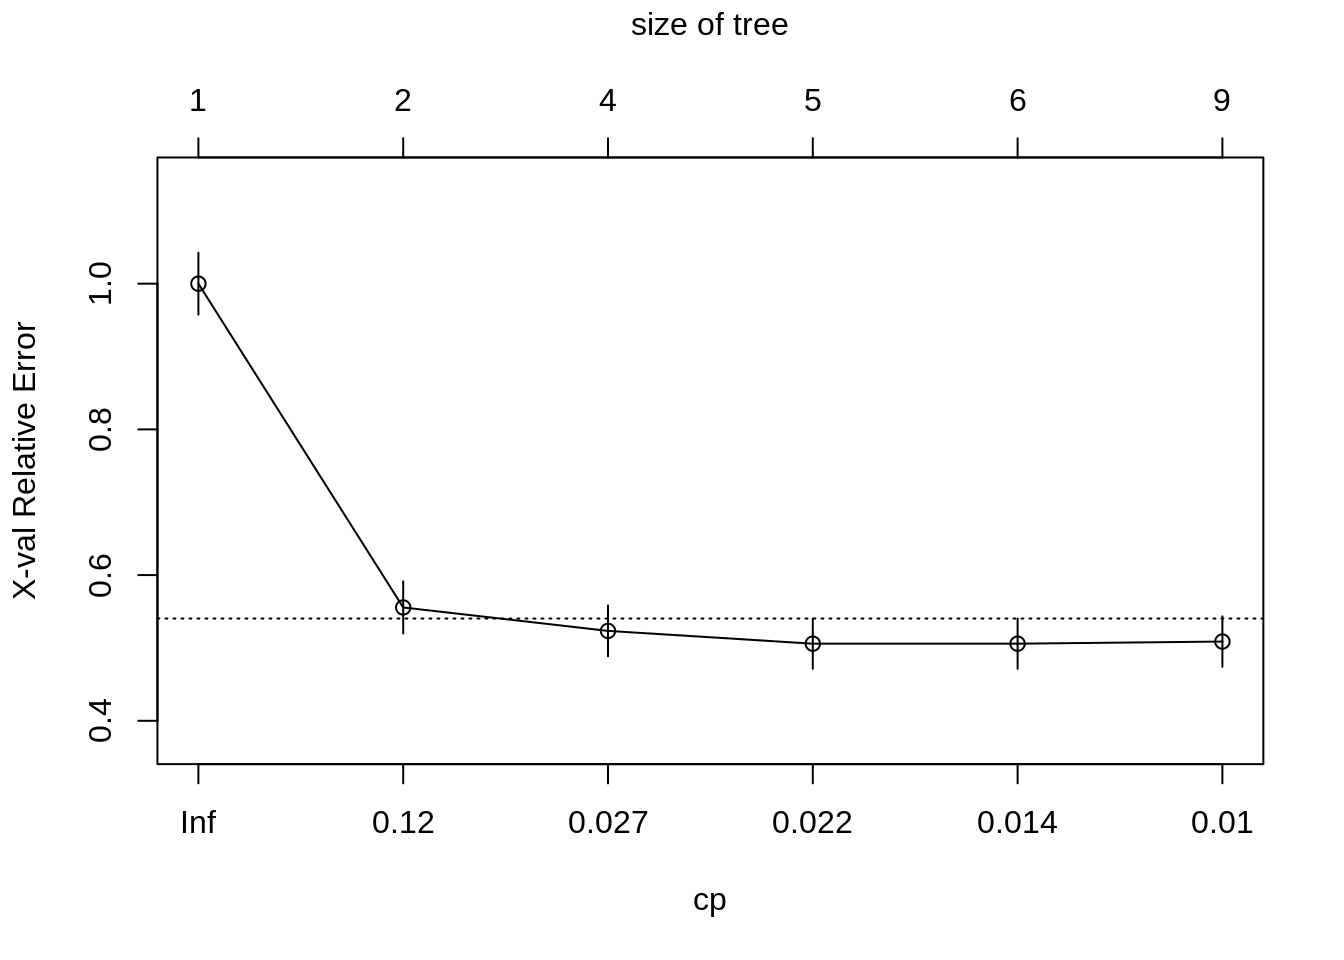
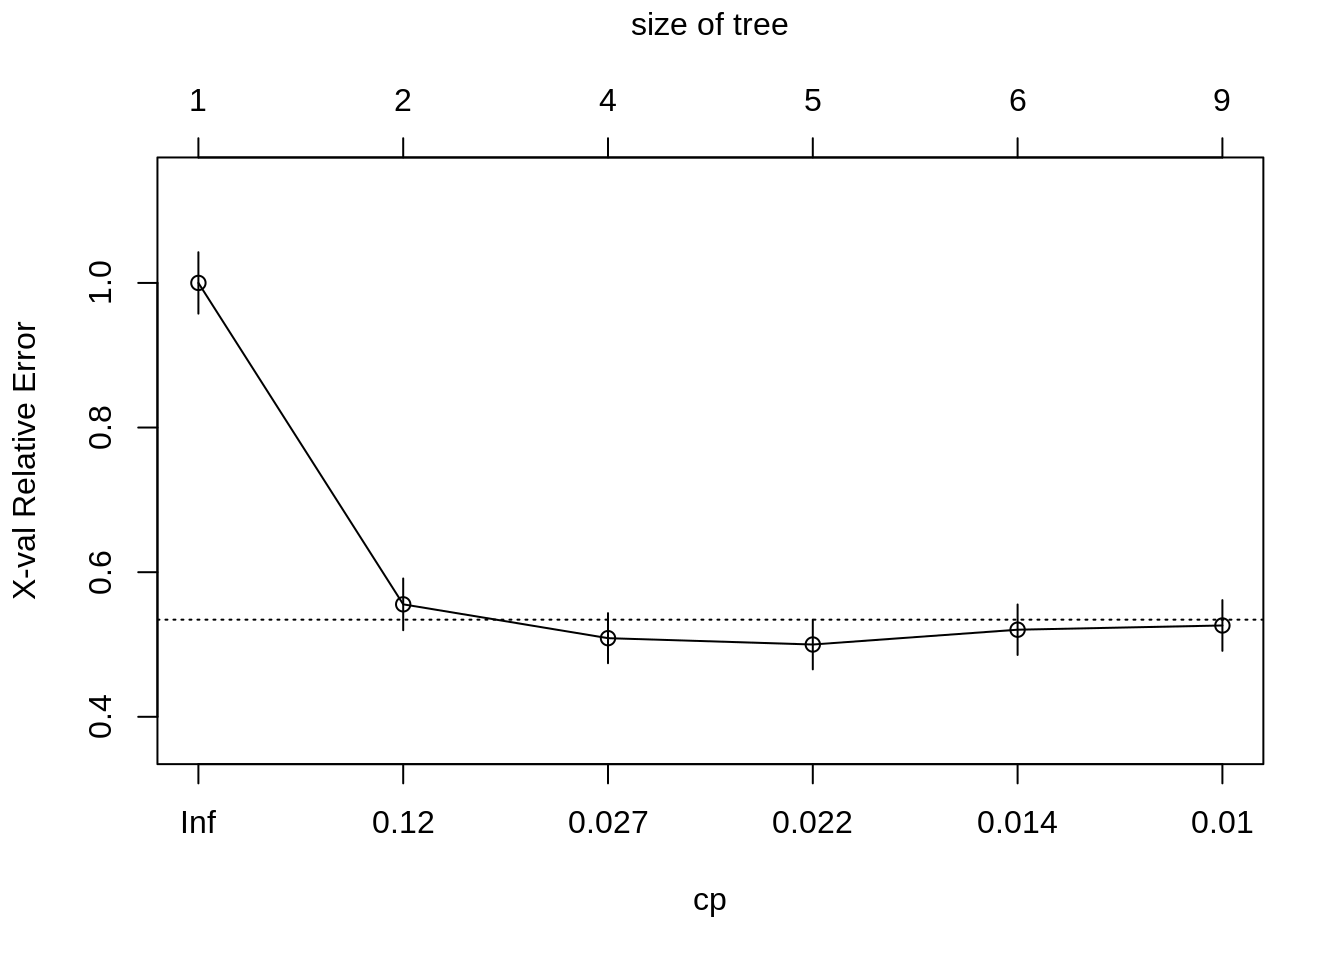
Deploy lebebr01/stat_thinking to github.com/lebebr01/stat_thinking.git:master

diff --git a/docs/classification.html b/docs/classification.html
@@ -324,10 +324,10 @@ titanic &lt;-<span class="st"> </span><span class="kw">bind_rows</span>(titanic_
 ##         CP nsplit rel error  xerror     xstd
 ## 1 0.444444      0   1.00000 1.00000 0.042446
 ## 2 0.030702      1   0.55556 0.55556 0.035750
-## 3 0.023392      3   0.49415 0.52339 0.034970
-## 4 0.020468      4   0.47076 0.50585 0.034524
-## 5 0.010234      5   0.45029 0.50585 0.034524
-## 6 0.010000      8   0.41813 0.50877 0.034599</code></pre>
+## 3 0.023392      3   0.49415 0.50877 0.034599
+## 4 0.020468      4   0.47076 0.50000 0.034372
+## 5 0.010234      5   0.45029 0.52047 0.034897
+## 6 0.010000      8   0.41813 0.52632 0.035043</code></pre>
 <div class="sourceCode"><pre class="sourceCode r"><code class="sourceCode r"><span class="kw">plotcp</span>(class_tree)</code></pre></div>
 <p><img src="05-classification_files/figure-html/unnamed-chunk-6-1.png" width="672" /></p>
 <div class="sourceCode"><pre class="sourceCode r"><code class="sourceCode r">prune_class_tree &lt;-<span class="st"> </span><span class="kw">prune</span>(class_tree, <span class="dt">cp =</span> .<span class="dv">02</span>)

diff --git a/docs/05-classification.md b/docs/05-classification.md
@@ -249,10 +249,10 @@ printcp(class_tree)
 ##         CP nsplit rel error  xerror     xstd
 ## 1 0.444444      0   1.00000 1.00000 0.042446
 ## 2 0.030702      1   0.55556 0.55556 0.035750
-## 3 0.023392      3   0.49415 0.52339 0.034970
-## 4 0.020468      4   0.47076 0.50585 0.034524
-## 5 0.010234      5   0.45029 0.50585 0.034524
-## 6 0.010000      8   0.41813 0.50877 0.034599
+## 3 0.023392      3   0.49415 0.50877 0.034599
+## 4 0.020468      4   0.47076 0.50000 0.034372
+## 5 0.010234      5   0.45029 0.52047 0.034897
+## 6 0.010000      8   0.41813 0.52632 0.035043
 ```
 
 ```r
